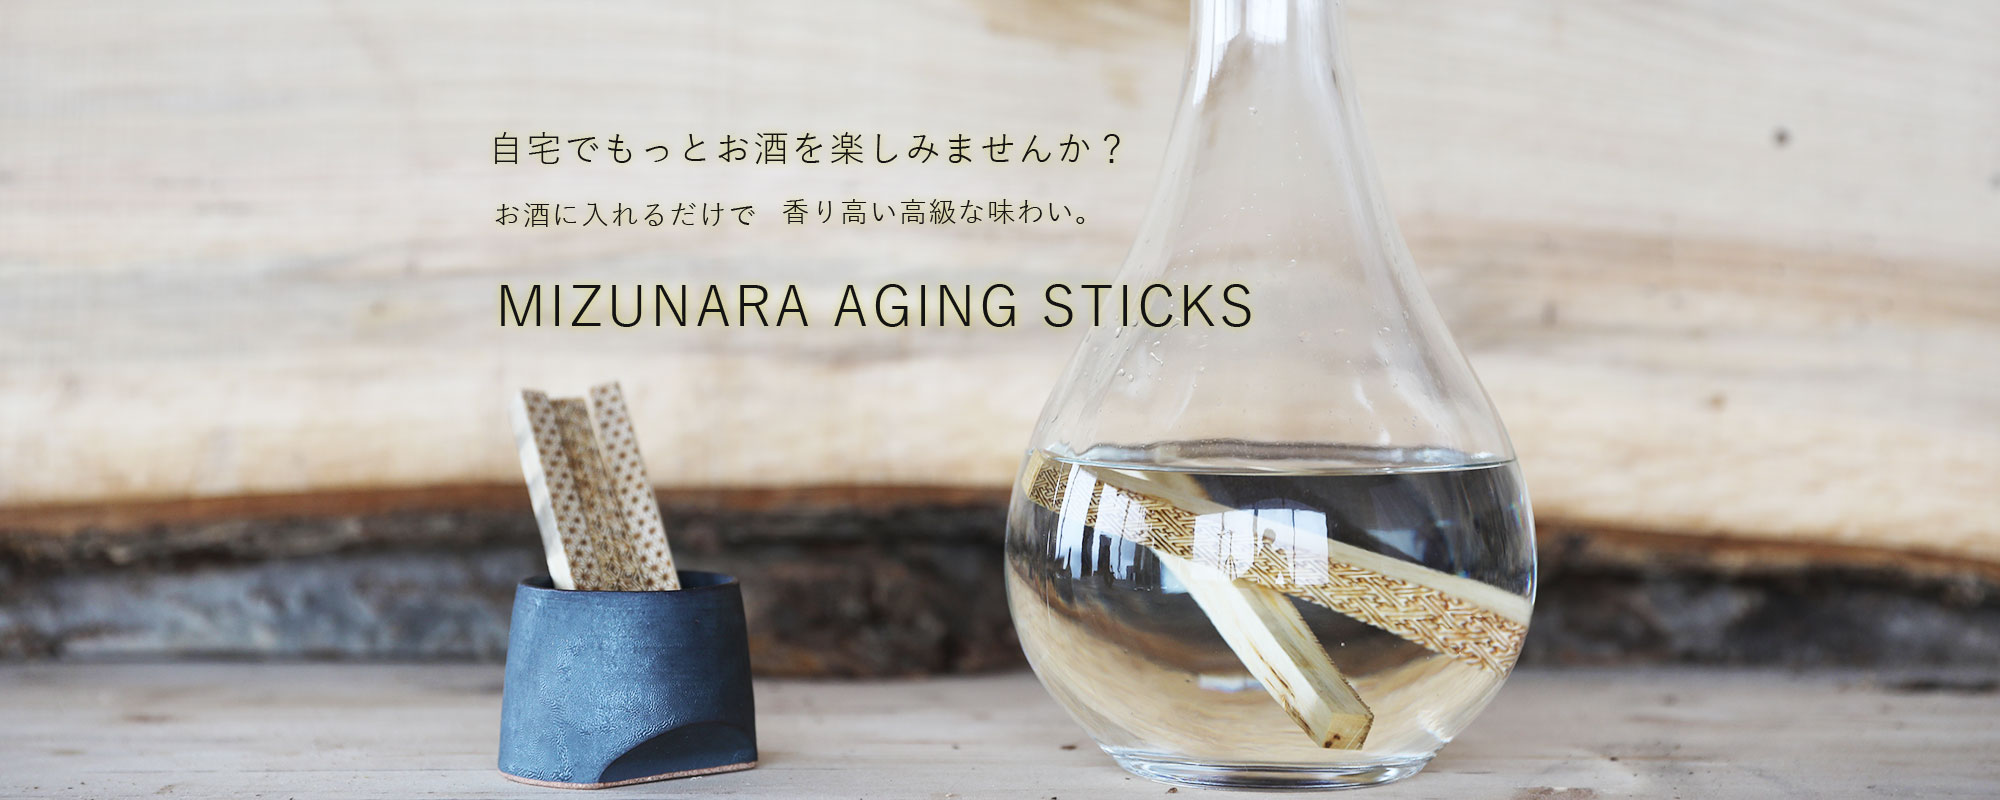
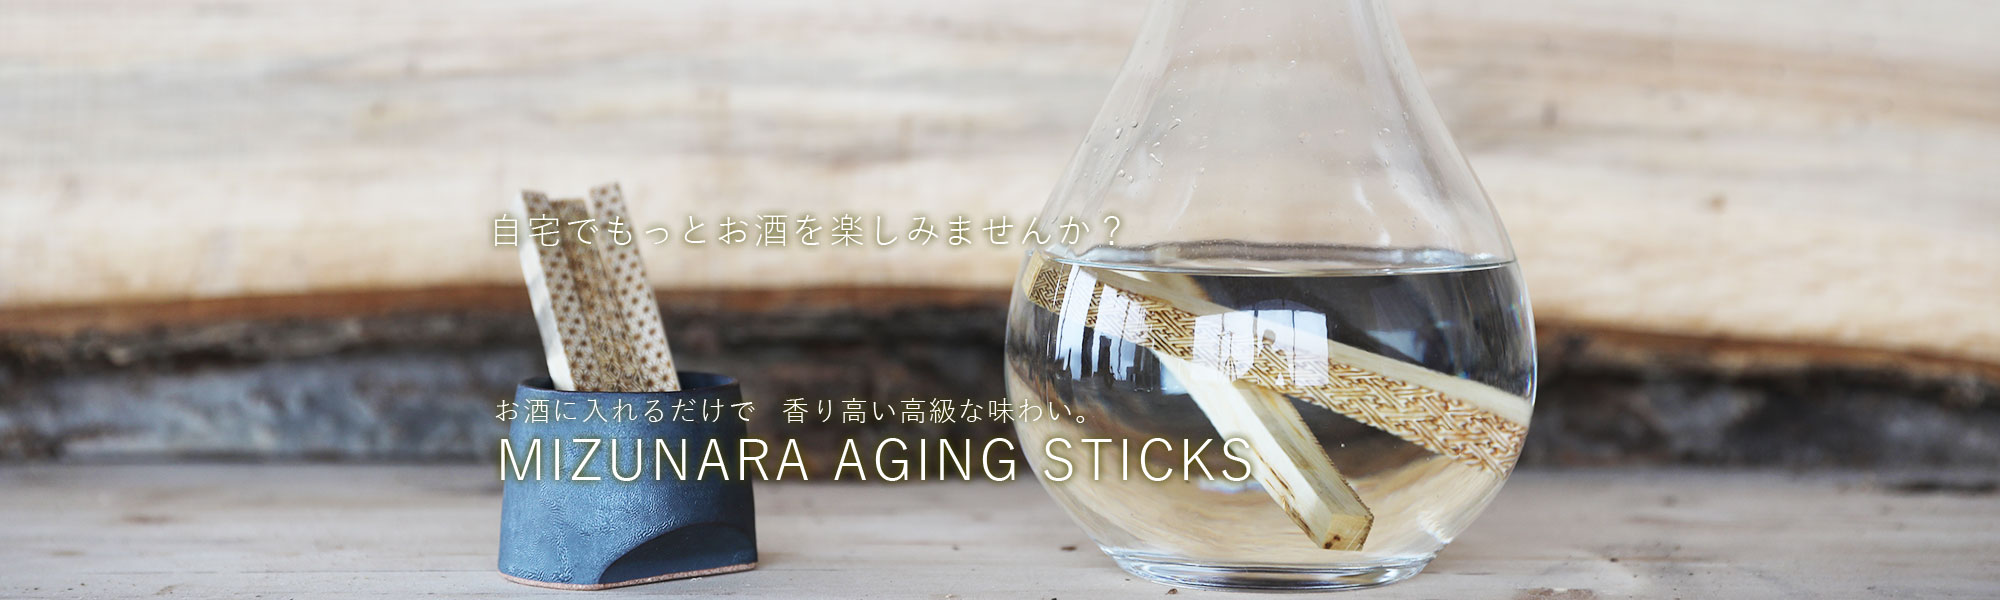
Add item slider

diff --git a/index.html b/index.html
@@ -74,6 +74,73 @@
   </div>
 </header>
 
+<div class="itemlist">
+  <div class="itemlist-slide">
+    <div>
+      <a href="#">
+        <img src="index2018/img/item-slide/01.jpg">
+        <p>お酒を熟成する<br>不思議なスティック</p>
+      </a>
+    </div>
+
+    <div>
+      <a href="#">
+        <img src="index2018/img/item-slide/02.jpg">
+        <p>ワケありのけやき表札</p>
+      </a>
+    </div>
+
+    <div>
+      <a href="#">
+        <img src="index2018/img/item-slide/03.jpg">
+        <p>ブランド銘木<br>越後杉の無垢材の箸</p>
+      </a>
+    </div>
+
+    <div>
+      <a href="#">
+        <img src="index2018/img/item-slide/04.jpg">
+        <p>NiiMoの<br>カッティングボード</p>
+      </a>
+    </div>
+
+    <div>
+      <a href="#">
+        <img src="index2018/img/item-slide/05.jpg">
+        <p>無垢材専用のオイル<br>自社開発 E-OIL</p>
+      </a>
+    </div>
+
+    <div>
+      <a href="#">
+        <img src="index2018/img/item-slide/06.jpg">
+        <p>ずっと探していた<br>卓上ネームプレート</p>
+      </a>
+    </div>
+
+    <div>
+      <a href="#">
+        <img src="index2018/img/item-slide/07.jpg">
+        <p>こだわりの越後杉表札</p>
+      </a>
+    </div>
+
+    <div>
+      <a href="#">
+        <img src="index2018/img/item-slide/08.jpg">
+        <p>森を守る。<br>スノービーチ材の表札</p>
+      </a>
+    </div>
+
+    <div>
+      <a href="#">
+        <img src="index2018/img/item-slide/09.jpg">
+        <p>メニューボードや<br>お子様のお絵かきに。</p>
+      </a>
+    </div>
+  </div>
+</div>
+
 <article>
 
   <div id="product" class="productbrand _maxwidth">

diff --git a/index2018/css/style.css b/index2018/css/style.css
@@ -47,7 +47,7 @@ a:hover {
 /*ヘッダーの設定*/
 header .header-bg img {
     width: 100%;
-    height: 800px;
+    height: 600px;
     object-fit: cover;
 }
 header h2 {
@@ -63,7 +63,7 @@ header .header-container {
 }
 header .header-bg {
     width: 100%;
-    height: 800px;
+    height: 600px;
     overflow: hidden;
 }
 header .header-line {
@@ -217,6 +217,25 @@ header .header-line-container .header-line-parts3 {
 header .header-line-container .header-line-parts3>._right {
     padding-left: 30px;
     float: right;
+}
+
+/* itemlist */
+.itemlist {
+    /* height: 200px; */
+    padding: 20px 0;
+}
+
+.itemlist-slide .slick-slide {
+    padding: 0 10px;
+}
+
+.itemlist-slide img {
+    width: 100%;
+}
+
+.itemlist-slide p {
+    margin-top: 5px;
+    margin-bottom: 0;
 }
 
 /*アーティクルの設定*/

diff --git a/index2018/js/slick_init.js b/index2018/js/slick_init.js
@@ -4,6 +4,18 @@ const breakpointPcTablet = 960;
 
 // Start slideshow when open site
 $(document).ready(function(){
+    $('.itemlist-slide').slick({
+        autoplay: true,
+        autoplaySpeed: 0,
+        cssEase: 'linear',
+        fade: false,
+        slidesToShow: 8,
+        slidesToScroll: 1,
+        speed: 6000,
+        centerMode: true,
+        centerPadding: '10px'
+    });
+
     $('.product-slide').slick({
         autoplay: true,
         fade: true
